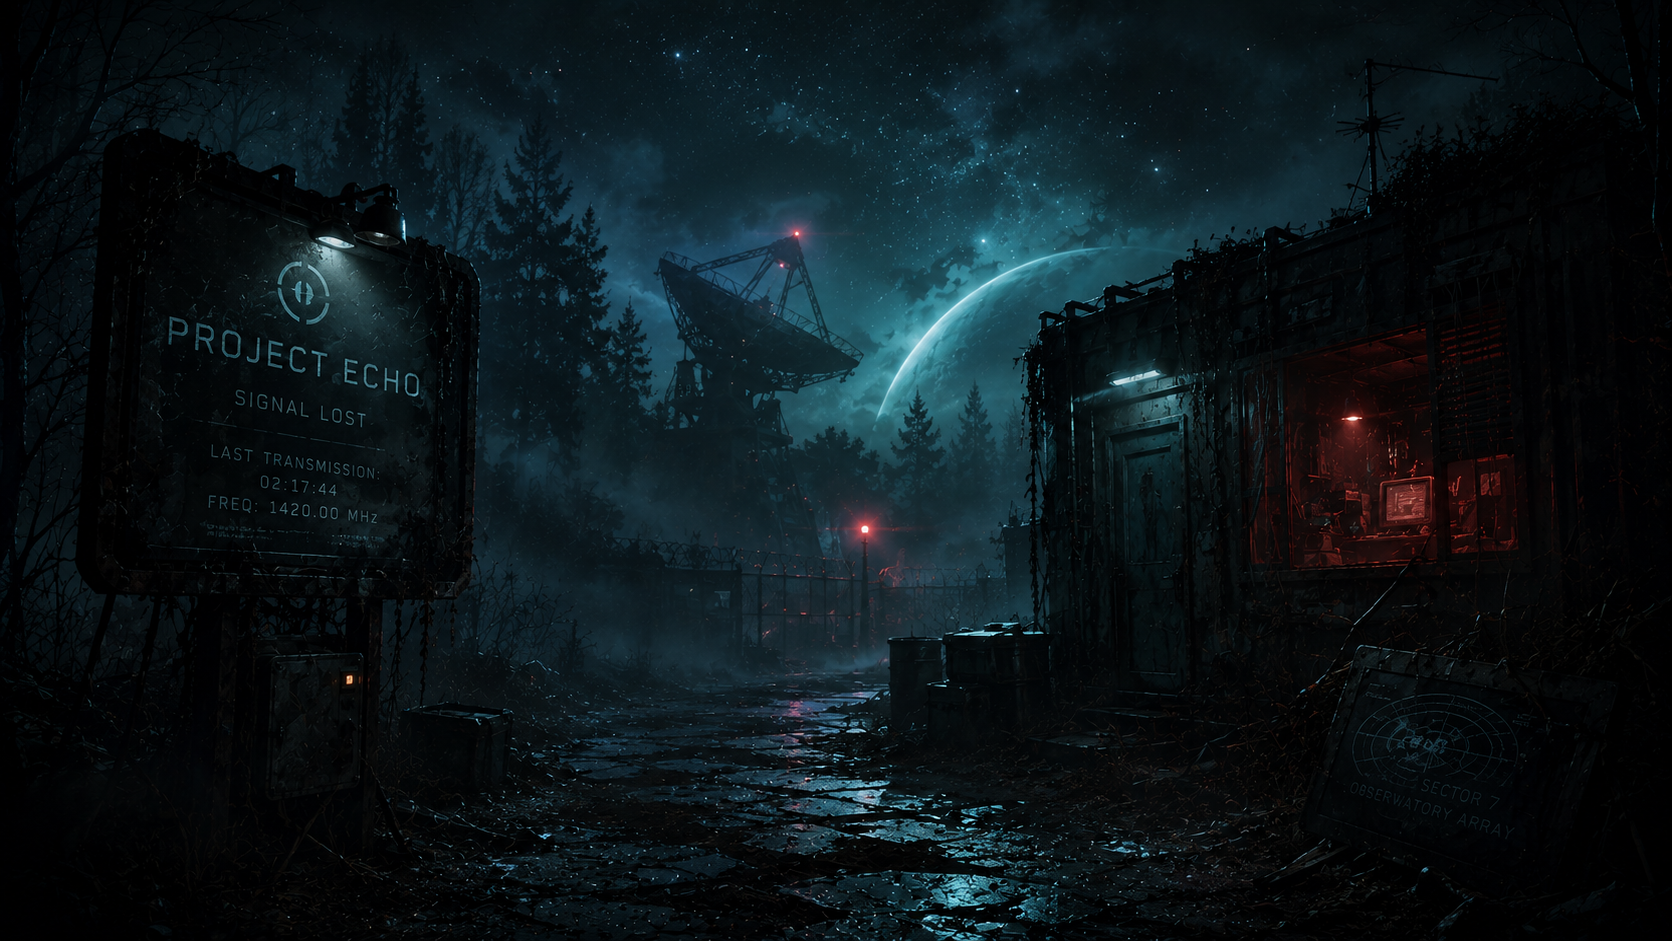
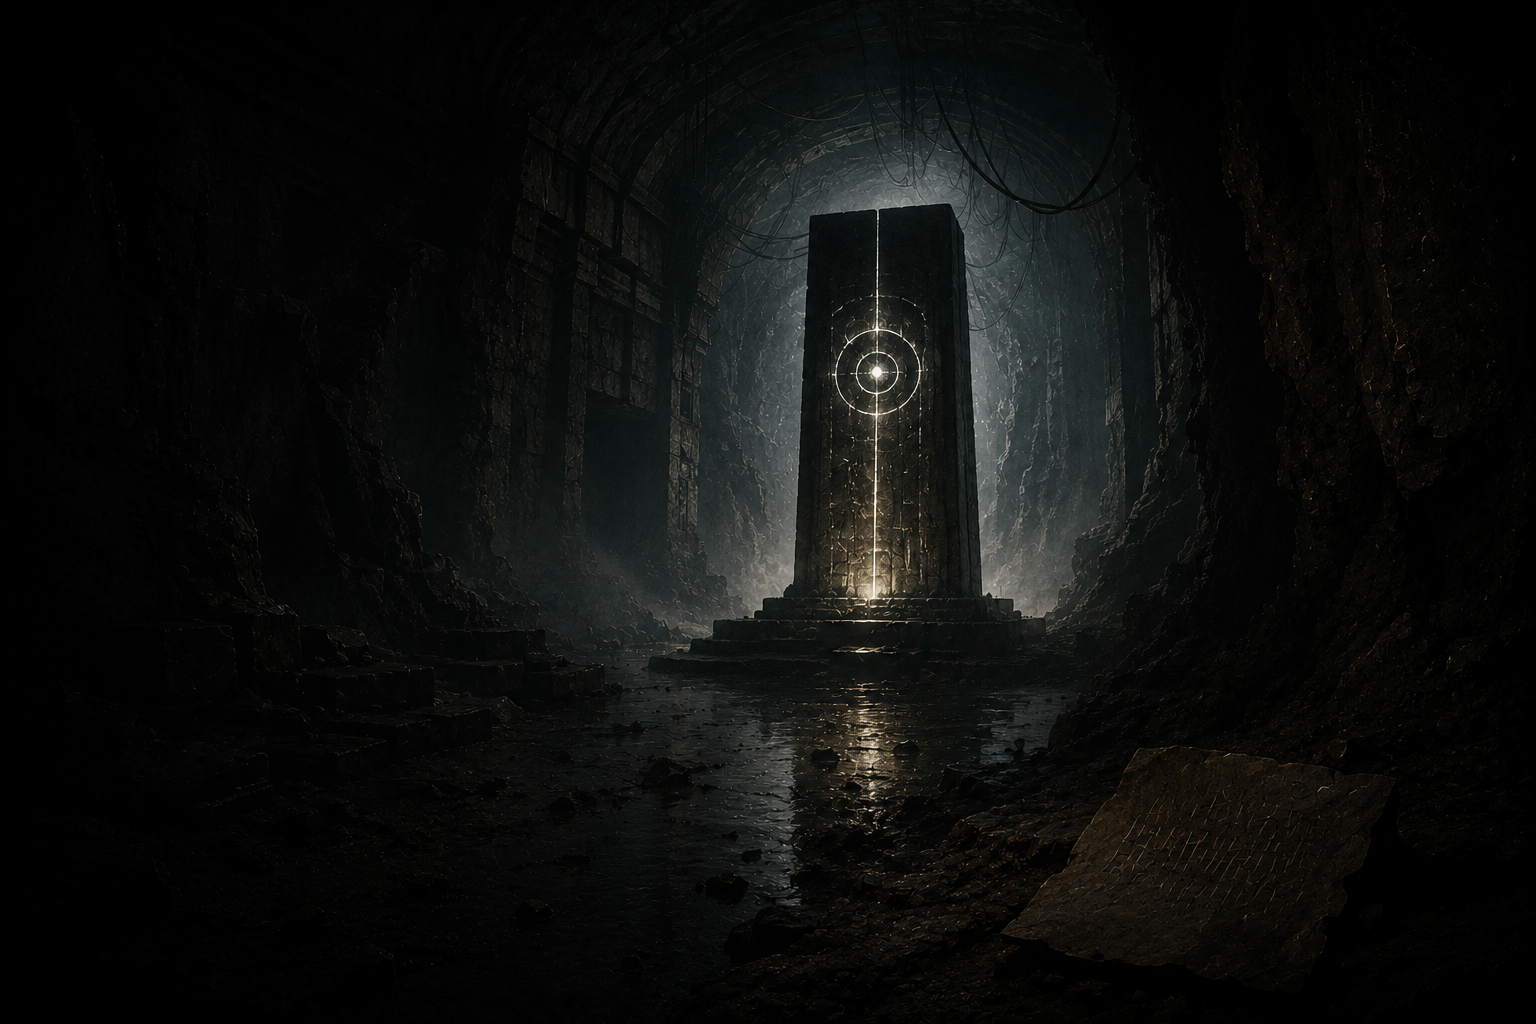
startscreen fix

diff --git a/src/components/StartScreen.jsx b/src/components/StartScreen.jsx
@@ -6,10 +6,10 @@ import ProducerLogoAnimation from "./ProducerLogoAnimation";
 export default function StartScreen({
   gameTitle,
   subtitle,
-  onStart,              
-  onContinue,           
-  hasSavedGame = false, 
-  onOpenCredits,        
+  onStart,
+  onContinue,
+  hasSavedGame = false,
+  onOpenCredits,
   settings,
   onChangeSettings,
   onReset
@@ -22,28 +22,19 @@ export default function StartScreen({
 
   const language = settings?.language || "en";
 
-  // Yasal Uyarı Zamanlayıcısı
   useEffect(() => {
     if (introStep !== "disclaimer") return;
     const leaveTimer = setTimeout(() => setIsLeaving(true), 3600);
-    const nextTimer = setTimeout(() => {
-      setIntroStep("initialLoading");
-      setIsLeaving(false);
-    }, 4800);
-    return () => {
-      clearTimeout(leaveTimer);
-      clearTimeout(nextTimer);
-    };
+    const nextTimer = setTimeout(() => { setIntroStep("initialLoading"); setIsLeaving(false); }, 4800);
+    return () => { clearTimeout(leaveTimer); clearTimeout(nextTimer); };
   }, [introStep]);
 
-  // İlk Açılış Ara Yükleme Zamanlayıcısı (Yer Altı Sinyal Bağlantısı)
   useEffect(() => {
     if (introStep !== "initialLoading") return;
     const menuTimer = setTimeout(() => setIntroStep("start"), 2500);
     return () => clearTimeout(menuTimer);
   }, [introStep]);
 
-  // Brifing Metinlerinin Ekrana Sırayla Gelme Zamanlayıcıları
   useEffect(() => {
     if (introStep !== "briefing") return;
     const timers = [
@@ -53,12 +44,9 @@ export default function StartScreen({
     return () => timers.forEach(clearTimeout);
   }, [introStep]);
 
-  // Brifing Sonrası Derin Bağlantı Yükleme Ekranı Zamanlayıcısı
   useEffect(() => {
     if (introStep !== "loading") return;
-    const t = setTimeout(() => {
-      onStart?.(); 
-    }, 4000);
+    const t = setTimeout(() => { onStart?.(); }, 4000);
     return () => clearTimeout(t);
   }, [introStep, onStart]);
 
@@ -66,47 +54,22 @@ export default function StartScreen({
     if (isButtonLoading) return;
     setIsButtonLoading(true);
     setTimeout(() => setIsLeaving(true), 1000);
-    setTimeout(() => {
-      setIntroStep("loading");
-      setIsLeaving(false);
-    }, 1800);
+    setTimeout(() => { setIntroStep("loading"); setIsLeaving(false); }, 1800);
   };
 
-  // AŞAMA 1: Yapımcı Logosu
-  if (introStep === "producerLogo") {
-    return (
-      <ProducerLogoAnimation
-        src="/red-door-logo.jpg"
-        alt="Red Door"
-        onComplete={() => setIntroStep("disclaimer")}
-      />
-    );
-  }
+  if (introStep === "producerLogo") return <ProducerLogoAnimation src="/red-door-logo.jpg" alt="Red Door" onComplete={() => setIntroStep("disclaimer")} />;
 
-  // AŞAMA 2: Kültürel ve Kurumsal Yasal Uyarı
   if (introStep === "disclaimer") {
     return (
       <main className="relative grid min-h-dvh place-items-center overflow-hidden bg-black px-6 select-none font-mono">
-        <div
-          className={[
-            "max-w-4xl text-center",
-            isLeaving
-              ? "opacity-0 transition-opacity duration-1000"
-              : "opacity-100 transition-opacity duration-1200"
-          ].join(" ")}
-        >
-          <p className="text-base leading-relaxed tracking-wide text-stone-300 sm:text-lg">
-            {getGameText("start.disclaimer.line1", "Bu yapıttaki tüm kurumlar, karakterler ve kazı alanları kurgusaldır.", language)}
-          </p>
-          <p className="mt-4 text-base leading-relaxed tracking-wide text-stone-400 sm:text-lg">
-            {getGameText("start.disclaimer.line2", "Gerçek kişi, mekan ve arkeolojik keşiflerle olan benzerlikler tamamen rastlantısaldır.", language)}
-          </p>
+        <div className={["max-w-4xl text-center", isLeaving ? "opacity-0 transition-opacity duration-1000" : "opacity-100 transition-opacity duration-1200"].join(" ")}>
+          <p className="text-base leading-relaxed tracking-wide text-stone-300 sm:text-lg">{getGameText("start.disclaimer.line1", "Bu yapıttaki tüm kurumlar, karakterler ve kazı alanları kurgusaldır.", language)}</p>
+          <p className="mt-4 text-base leading-relaxed tracking-wide text-stone-400 sm:text-lg">{getGameText("start.disclaimer.line2", "Gerçek kişi, mekan ve arkeolojik keşiflerle olan benzerlikler tamamen rastlantısaldır.", language)}</p>
         </div>
       </main>
     );
   }
 
-  // AŞAMA 3: Menü Öncesi Sinyal Arama Ekranı (Kehribar Rengi Döner Daire)
   if (introStep === "initialLoading") {
     return (
       <main className="relative min-h-dvh bg-neutral-950 font-mono select-none text-stone-600">
@@ -114,17 +77,7 @@ export default function StartScreen({
           <span className="text-[10px] tracking-widest opacity-50 text-amber-600 font-bold">TUNNEL_SIGNAL_SEARCH_</span>
           <div className="relative w-6 h-6">
             {[...Array(8)].map((_, i) => (
-              <div
-                key={i}
-                className="absolute w-1 h-1 bg-amber-500 rounded-full animate-pulse"
-                style={{
-                  top: `${50 + 40 * Math.sin((i * Math.PI) / 4)}%`,
-                  left: `${50 + 40 * Math.cos((i * Math.PI) / 4)}%`,
-                  transform: "translate(-50%, -50%)",
-                  animationDelay: `${i * 0.15}s`,
-                  animationDuration: "1.2s"
-                }}
-              />
+              <div key={i} className="absolute w-1 h-1 bg-amber-500 rounded-full animate-pulse" style={{ top: `${50 + 40 * Math.sin((i * Math.PI) / 4)}%`, left: `${50 + 40 * Math.cos((i * Math.PI) / 4)}%`, transform: "translate(-50%, -50%)", animationDelay: `${i * 0.15}s`, animationDuration: "1.2s" }} />
             ))}
           </div>
         </div>
@@ -132,54 +85,26 @@ export default function StartScreen({
     );
   }
 
-  // AŞAMA 4: YERALTI ANOMALİSİ BRİFİNG EKRANI (Yeni Hikaye Temelli)
   if (introStep === "briefing") {
     return (
       <main className="fixed inset-0 grid place-items-center bg-black px-8 py-16 font-mono select-none text-stone-300">
-        <section
-          className="w-full max-w-2xl text-center space-y-12 transition-opacity duration-1000 ease-in-out"
-          style={{ opacity: isLeaving ? 0 : 1 }}
-        >
-          
-          {/* Paragraf 1 */}
-          {briefingStage >= 1 && (
-            <p className="text-sm leading-relaxed tracking-wide text-stone-300/90 max-w-xl mx-auto animate-[startScreenFadeIn_1s_both]">
-              Nevşehir kazı alanı tescilsiz alt katmanları; yüksek frekans bozulmaları, mühürlenmiş antik oda mimarileri ve kayıp ekspedisyon kayıtları barındırmaktadır. Lütfen sinyal takibini dikkatle sürdürün.
-            </p>
-          )}
-
-          {/* Paragraf 2 */}
+        <section className="w-full max-w-2xl text-center space-y-12 transition-opacity duration-1000 ease-in-out" style={{ opacity: isLeaving ? 0 : 1 }}>
+          {briefingStage >= 1 && <p className="text-sm leading-relaxed tracking-wide text-stone-300/90 max-w-xl mx-auto animate-[startScreenFadeIn_1s_both]">Nevşehir kazı alanı tescilsiz alt katmanları; yüksek frekans bozulmaları, mühürlenmiş antik oda mimarileri ve kayıp ekspedisyon kayıtları barındırmaktadır. Lütfen sinyal takibini dikkatle sürdürün.</p>}
           {briefingStage >= 2 && (
             <div className="space-y-12 animate-[startScreenFadeIn_1s_both]">
-              <p className="text-sm leading-relaxed tracking-wide text-stone-300/90 max-w-xl mx-auto">
-                Şu an Katman Projesi telsiz köprüsünü yürütüyorsunuz. Amacınız yer altı sığınak ağında mahsur kalan Jones Aydın ile bağlantıyı korumak ve mühürlü mırıldanmaları filtrelemektir. Rezonans sapmalarına yanıt vermeyin. Sadece rehberlik edin, fotoğrafları arşivleyin ve Jones'u yüzeye çıkarın.
-              </p>
-
-              {/* Devam Et Butonu */}
+              <p className="text-sm leading-relaxed tracking-wide text-stone-300/90 max-w-xl mx-auto">Şu an Katman Projesi telsiz köprüsünü yürütüyorsunuz. Amacınız yer altı sığınak ağında mahsur kalan Jones Aydın ile bağlantıyı korumak ve mühürlü mırıldanmaları filtrelemektir. Rezonans sapmalarına yanıt vermeyin. Sadece rehberlik edin, fotoğrafları arşivleyin ve Jones'u yüzeye çıkarın.</p>
               <div className="pt-4">
-                <button
-                  type="button"
-                  onClick={handleAcceptBriefing}
-                  disabled={isButtonLoading}
-                  className={[
-                    "text-xs tracking-[0.3em] uppercase transition-all duration-300 bg-transparent text-amber-500 font-bold border-b border-transparent pb-1",
-                    isButtonLoading
-                      ? "opacity-30 cursor-not-allowed"
-                      : "hover:text-white hover:border-white"
-                  ].join(" ")}
-                >
+                <button type="button" onClick={handleAcceptBriefing} disabled={isButtonLoading} className={["text-xs tracking-[0.3em] uppercase transition-all duration-300 bg-transparent text-amber-500 font-bold border-b border-transparent pb-1", isButtonLoading ? "opacity-30 cursor-not-allowed" : "hover:text-white hover:border-white"].join(" ")}>
                   {isButtonLoading ? "BAĞLANTI_KURULUYOR..." : "FREKANSI_BAĞLA"}
                 </button>
               </div>
             </div>
           )}
-
         </section>
       </main>
     );
   }
 
-  // AŞAMA 5: ANTİK ŞİFRE VE SES ANALİZ YÜKLEME SEKANSI
   if (introStep === "loading") {
     return (
       <main className="fixed inset-0 flex items-center justify-center bg-neutral-950 font-mono select-none text-stone-500">
@@ -189,22 +114,12 @@ export default function StartScreen({
           <p className="font-bold text-rose-600">[ UYARI: DERİN KATMANDA BELİRSİZ HAREKETLİLİK TESPİT EDİLDİ ]</p>
           <p>TELSİZ KANALI FREKANS KİLİDİ STABİLİZASYONU...</p>
         </div>
-        
+        {/* Dönen tekerlek geri eklendi */}
         <div className="fixed bottom-8 right-8 flex items-center gap-4 text-stone-400">
           <span className="text-[10px] tracking-wider uppercase font-bold opacity-50 text-amber-500">LINKING_</span>
           <div className="relative w-6 h-6">
             {[...Array(8)].map((_, i) => (
-              <div
-                key={i}
-                className="absolute w-[3px] h-[3px] bg-amber-500 rounded-full animate-pulse"
-                style={{
-                  top: `${50 + 42 * Math.sin((i * Math.PI) / 4)}%`,
-                  left: `${50 + 42 * Math.cos((i * Math.PI) / 4)}%`,
-                  transform: "translate(-50%,-50%)",
-                  animationDelay: `${i * 0.15}s`,
-                  animationDuration: "1.2s"
-                }}
-              />
+              <div key={i} className="absolute w-[3px] h-[3px] bg-amber-500 rounded-full animate-pulse" style={{ top: `${50 + 42 * Math.sin((i * Math.PI) / 4)}%`, left: `${50 + 42 * Math.cos((i * Math.PI) / 4)}%`, transform: "translate(-50%,-50%)", animationDelay: `${i * 0.15}s`, animationDuration: "1.2s" }} />
             ))}
           </div>
         </div>
@@ -212,70 +127,34 @@ export default function StartScreen({
     );
   }
 
-  // AŞAMA 6: ANA MENÜ GÖRÜNTÜSÜ (Antik Taş Estetiği)
   return (
-    <main className="relative flex min-h-dvh items-center justify-center overflow-hidden px-6 py-10 text-stone-100 animate-[startScreenFadeIn_0.9s_ease-out_both] font-mono select-none bg-black">
-      <img src="/echo-menu-bg.jpg" alt="" className="absolute inset-0 h-full w-full object-cover opacity-35" draggable={false} />
-      <div className="absolute inset-0 bg-gradient-to-t from-black via-black/50 to-transparent" />
+    <main className="relative flex min-h-dvh items-center justify-start bg-black font-mono select-none overflow-hidden text-stone-300">
+      <img src="/echo-menu-bg.jpg" alt="" className="absolute inset-0 h-full w-full object-cover opacity-80" draggable={false} />
+      <div className="absolute inset-0 bg-gradient-to-r from-black via-black/40 to-transparent" />
+      
+      <div className="absolute right-10 top-20 text-[14px] text-stone-500 opacity-40 font-serif italic text-right leading-relaxed rotate-90 tracking-widest">
+        GERİ DÖNDÜĞÜNDE <br/> BANA İNANMA <br/> — JONES
+      </div>
 
-      <button
-        type="button"
-        onClick={() => setIsSettingsOpen(true)}
-        className="absolute right-5 top-5 z-20 grid h-10 w-10 place-items-center border border-stone-800 bg-neutral-950/60 text-stone-300 backdrop-blur-xs transition hover:border-amber-900/50 hover:bg-amber-950/20"
-        aria-label={getGameText("common.openSettings", "Open settings", language)}
-      >
-        ⚙
-      </button>
-
-      <section className="relative z-10 flex w-full max-w-xl flex-col items-center text-center">
-        <div className="mb-12 text-center">
-          <h1 className="text-4xl font-light tracking-[0.25em] text-stone-200 drop-shadow-[0_0_30px_rgba(245,158,11,0.35)] sm:text-6xl uppercase">
-            {gameTitle}
-          </h1>
-          {subtitle && <p className="mt-4 text-[10px] tracking-[0.45em] text-amber-600/80 uppercase font-bold">{subtitle}</p>}
-          <div className="mx-auto mt-6 h-px w-48 bg-stone-800 shadow-[0_0_15px_rgba(245,158,11,0.2)]" />
+      <section className="relative z-10 ml-20 flex flex-col">
+        <h1 className="text-5xl tracking-[0.2em] text-white mb-2 uppercase font-light">{gameTitle}</h1>
+        {subtitle && <p className="text-sm tracking-[0.5em] text-stone-500 uppercase mb-12">{subtitle}</p>}
+        
+        <div className="flex flex-col gap-6 w-80">
+          <button onClick={onContinue} disabled={!hasSavedGame} className="flex flex-col border-l-2 border-stone-600 pl-4 py-2 hover:border-amber-600 transition-all text-left">
+            <span className="text-lg uppercase">Devam Et</span>
+            <span className="text-[10px] text-stone-500">Son Kayıt: Bölüm 13</span>
+          </button>
+          <button onClick={() => setIntroStep("briefing")} className="text-left border-l-2 border-transparent pl-4 hover:border-amber-600 transition-all uppercase">Yeni Oyun</button>
+          <button onClick={onOpenCredits} className="text-left border-l-2 border-transparent pl-4 hover:border-amber-600 transition-all uppercase">Kayıtlar // Künye</button>
+          <button onClick={() => setIsSettingsOpen(true)} className="text-left border-l-2 border-transparent pl-4 hover:border-amber-600 transition-all uppercase">Ayarlar</button>
         </div>
 
-        <div className="flex w-full max-w-xs flex-col gap-3.5">
-          <button
-            type="button"
-            disabled={!hasSavedGame}
-            onClick={onContinue}
-            className={[
-              "w-full border bg-neutral-950/50 px-8 py-3.5 text-xs tracking-[0.28em] backdrop-blur-xs transition-all duration-300",
-              hasSavedGame
-                ? "border-stone-800 text-stone-200 hover:border-amber-900/50 hover:bg-amber-950/10 active:scale-[0.98]"
-                : "border-stone-900 text-stone-700 cursor-not-allowed opacity-30 bg-neutral-950/10"
-            ].join(" ")}
-          >
-            {getGameText("start.continueLink", "KÖPRÜYÜ DEVAM ETTİR", language)}
-          </button>
-
-          <button
-            type="button"
-            onClick={() => setIntroStep("briefing")}
-            className="w-full border border-stone-800 bg-neutral-950/30 px-8 py-3.5 text-xs tracking-[0.28em] text-stone-300 font-bold backdrop-blur-xs transition-all duration-300 hover:border-amber-900/40 hover:bg-amber-950/10 hover:text-amber-500 active:scale-[0.98]"
-          >
-            {getGameText("start.establishLink", "YENİ BAĞLANTI KUR", language)}
-          </button>
-
-          <button
-            type="button"
-            onClick={onOpenCredits}
-            className="w-full border border-stone-900/60 bg-neutral-950/10 px-8 py-3.5 text-[11px] tracking-[0.25em] text-stone-500 backdrop-blur-xs transition-all duration-300 hover:border-stone-800 hover:text-stone-400 active:scale-[0.98]"
-          >
-            {getGameText("start.creditsLink", "KAYITLAR // KÜNYE", language)}
-          </button>
-        </div>
+        <p className="mt-24 text-[11px] text-stone-600 italic">“Hafıza güvenilmez. Gerçeklik değişken.”</p>
       </section>
 
       {isSettingsOpen && (
-        <SettingsModal
-          settings={settings}
-          onChangeSettings={onChangeSettings}
-          onReset={onReset}
-          onClose={() => setIsSettingsOpen(false)}
-        />
+        <SettingsModal settings={settings} onChangeSettings={onChangeSettings} onReset={onReset} onClose={() => setIsSettingsOpen(false)} />
       )}
     </main>
   );

diff --git a/src/components/QuoteScreen.jsx b/src/components/QuoteScreen.jsx
@@ -153,17 +153,14 @@ export default function QuoteScreen({ quote, onComplete, language = "en" }) {
             );
           })}
 
-          {author && (
+{author && (
             <div
-              className={[
-                "mt-16 text-right text-sm font-normal tracking-[0.2em] text-amber-600/60 uppercase not-italic font-mono transition-all duration-[2000ms]",
-                customElements,
-                authorBlowAway ? "wind-particles" : ""
-              ].join(" ")}
-              style={!authorBlowAway ? {
+              className="mt-16 text-right text-sm font-normal tracking-[0.2em] text-amber-600/60 uppercase not-italic font-mono transition-all duration-[2500ms]"
+              style={{
                 opacity: authorVisible ? 1 : 0,
                 transform: authorVisible ? "translateX(0)" : "translateX(-10px)",
-              } : undefined}
+                filter: authorVisible ? "blur(0px)" : "blur(3px)",
+              }}
             >
               — {author}
             </div>
